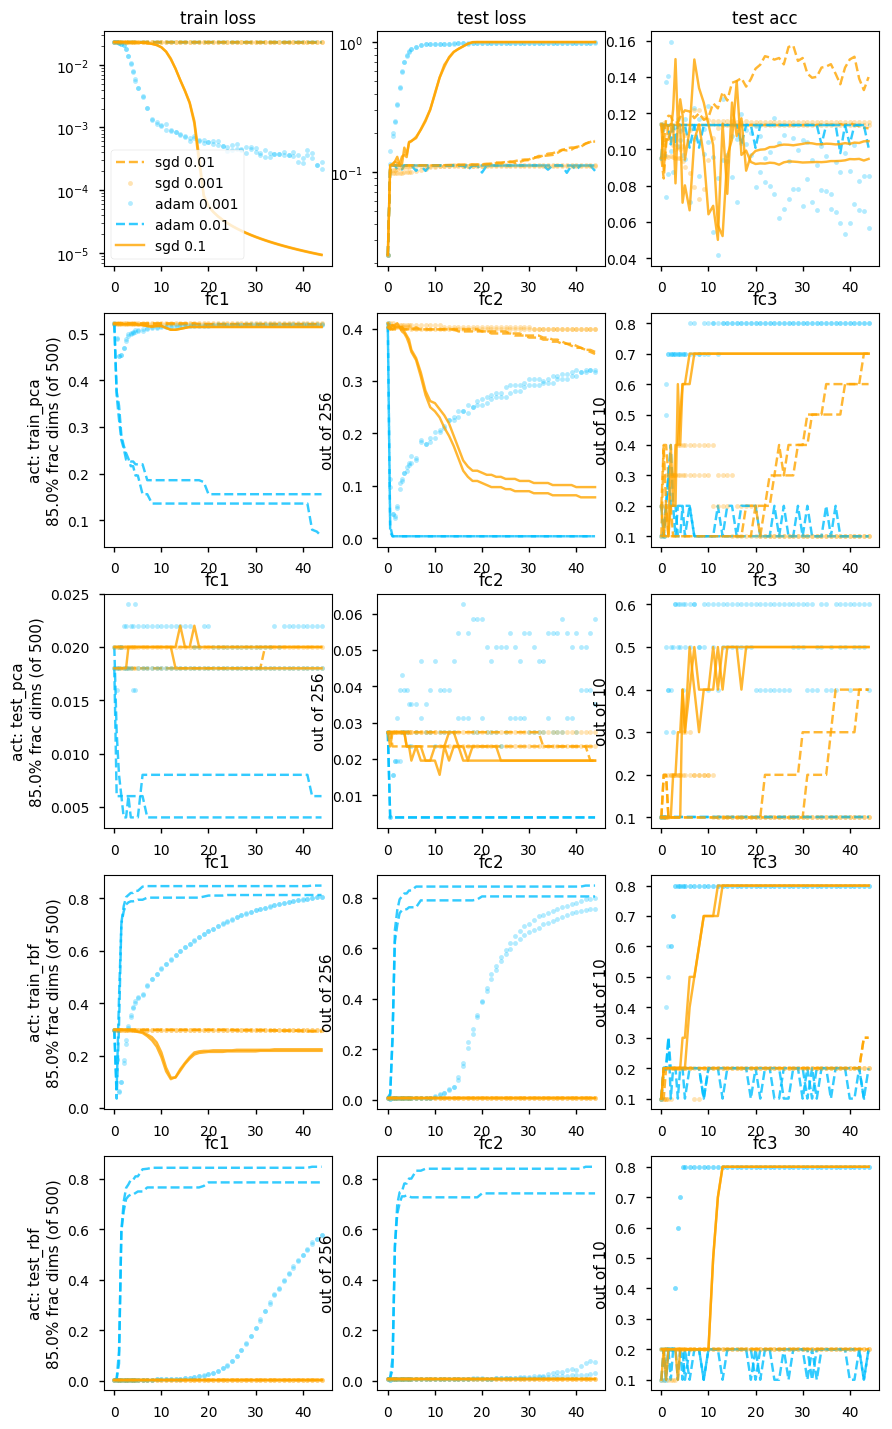
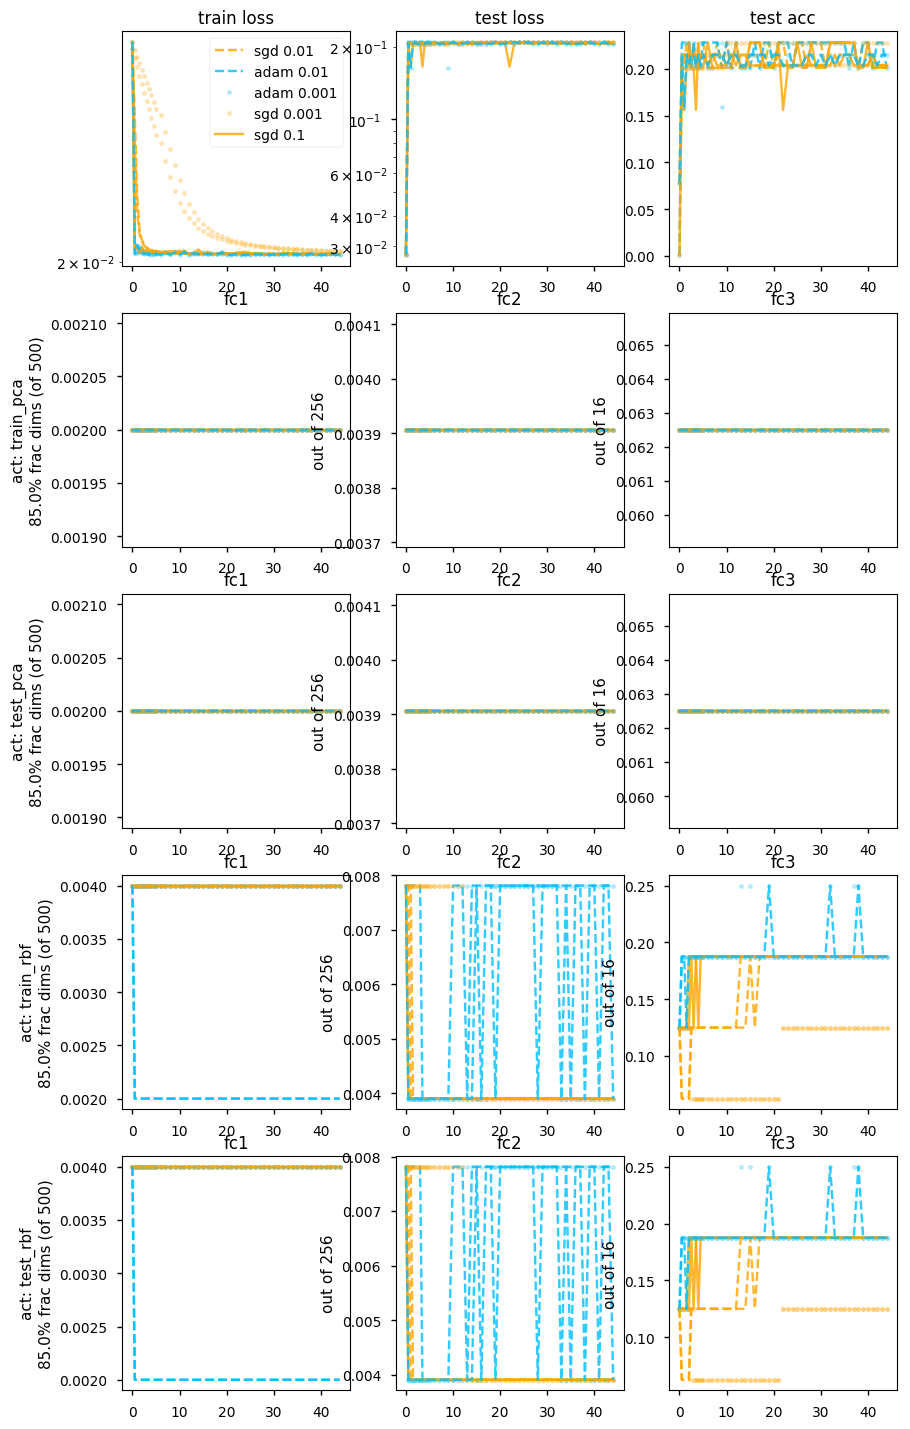
add conv capability

diff --git a/vision/models.py b/vision/models.py
@@ -42,6 +42,37 @@ class MnistNet(nn.Module):
     def name(self):
         return "mlp"
 
+class LeNet(nn.Module):
+    def __init__(self):
+        super(LeNet, self).__init__()
+        self.conv1 = nn.Conv2d(1, 20, 5, 1)
+        self.conv2 = nn.Conv2d(20, 50, 5, 1)
+        self.fc1 = nn.Linear(4*4*50, 500)
+        self.fc2 = nn.Linear(500, 10)
+
+    def forward(self, x):
+        x = F.relu(self.conv1(x))
+        x = F.max_pool2d(x, 2, 2)
+        x = F.relu(self.conv2(x))
+        x = F.max_pool2d(x, 2, 2)
+        x = x.view(-1, 4*4*50)
+        x = F.relu(self.fc1(x))
+        x = self.fc2(x)
+        return x
+    
+    def forward_all(self, x):
+        x1 = self.conv1(x)
+        x2 = F.max_pool2d(F.relu(x1), 2, 2)
+        x3 = self.conv2(x2)
+        x4 = F.max_pool2d(F.relu(x3), 2, 2)
+        x5 = self.fc1(x4.view(-1, 4*4*50))
+        x6 = F.relu(x5)
+        x7 = self.fc2(x6)
+        return {'conv1': x1, 'relu1': x2, 'conv2': x3, 'relu2': x4, 'fc3': x5, 'relu3': x6, 'fc4': x7}
+    
+    def name(self):
+        return "LeNet"    
+    
 class MnistNet_small(nn.Module):
     def __init__(self):
         super(MnistNet_small, self).__init__()

diff --git a/vision/dim_reduction.py b/vision/dim_reduction.py
@@ -48,6 +48,8 @@ def get_explained_var_from_weight_dict(weight_dict, activation=False):
     for layer_name in weight_dict.keys():
         if 'weight' in layer_name or activation:
             w = weight_dict[layer_name]
+            if len(w.shape) > 2: # conv layer
+                w = w.reshape(w.shape[0] * w.shape[1], -1)
             pca = PCA(n_components=w.shape[1])
             pca.fit(w)
             explained_var_dict[layer_name] = deepcopy(pca.explained_variance_ratio_)
@@ -59,6 +61,8 @@ def get_explained_var_kernels(weight_dict, kernel='cosine', activation=False):
     for layer_name in weight_dict.keys():
         if 'weight' in layer_name or activation:
             w = weight_dict[layer_name] # w is output x input so don't transpose
+            if len(w.shape) > 2: # conv layer
+                w = w.reshape(w.shape[0] * w.shape[1], -1)            
             if kernel == 'cosine':
                 K = pairwise.cosine_similarity(w)
             elif kernel == 'rbf':

diff --git a/vision/params_vision.py b/vision/params_vision.py
@@ -17,11 +17,14 @@ class p:
     
     # random seed
     seed = 2
-    dset = 'bars' # mnist or cifar10 or noise, bars
+    dset = 'mnist' # mnist or cifar10 or noise, bars
     shuffle_labels = False
+    use_conv = True
     
     calc_activations = 10000 # (0) calculate activations for diff number of data points and then do dim reduction...
-    out_dir = '/scratch/users/vision/yu_dl/raaz.rsk/adam_vs_sgd/test' # test
+    if use_conv:
+        calc_activations = 1000
+    out_dir = '/scratch/users/vision/yu_dl/raaz.rsk/adam_vs_sgd/mnist_conv' # test
     
     # saving
     if dset in ['mnist', 'bars', 'noise']:

diff --git a/eda_vision/viz_weights.py b/eda_vision/viz_weights.py
@@ -34,8 +34,10 @@ def frac_dims_to_explain_X_percent(arr, percent_to_explain):
 # plot all the weights
 def plot_weights(W, dset='mnist'): # W is num_filters x im_size
     num_filters = W.shape[0]
-    if dset == 'mnist' or dset is np.nan:
+    if dset in ['mnist', np.nan]:
         filts = W.reshape((num_filters, 28, 28))
+    elif dset in ['bars', 'noise']:
+        filts = W.reshape((num_filters, 8, 8))        
     elif dset =='cifar10':
         W = (W - np.min(W)) / (np.max(W) - np.min(W))
         filts = W.reshape((num_filters, 3, 32, 32))

diff --git a/vision/fit_vision.py b/vision/fit_vision.py
@@ -155,7 +155,10 @@ def fit_vision(p):
                         batch_size=batch_size,
                         shuffle=False)
         if p.dset == 'mnist':
-            model = models.MnistNet()        
+            if p.use_conv:
+                model = models.LeNet()
+            else:
+                model = models.MnistNet()        
         else:
             model = models.MnistNet_small()
     elif p.dset == 'cifar10':
